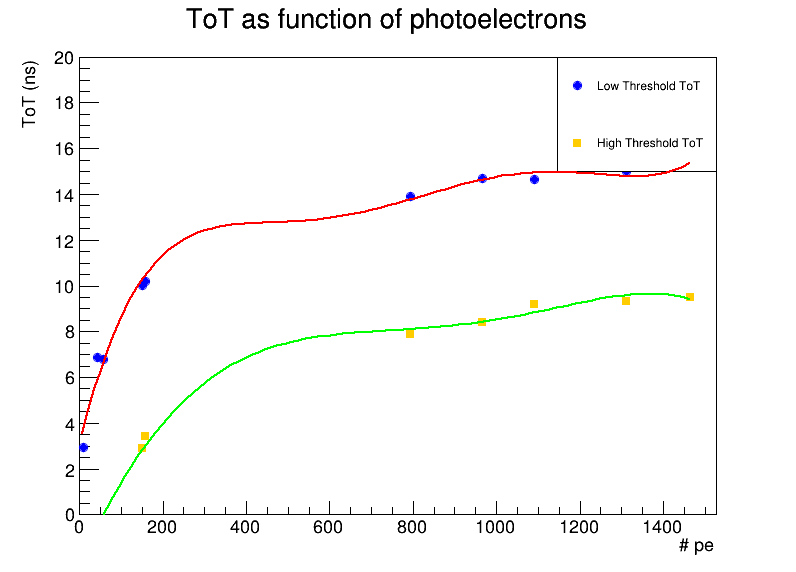
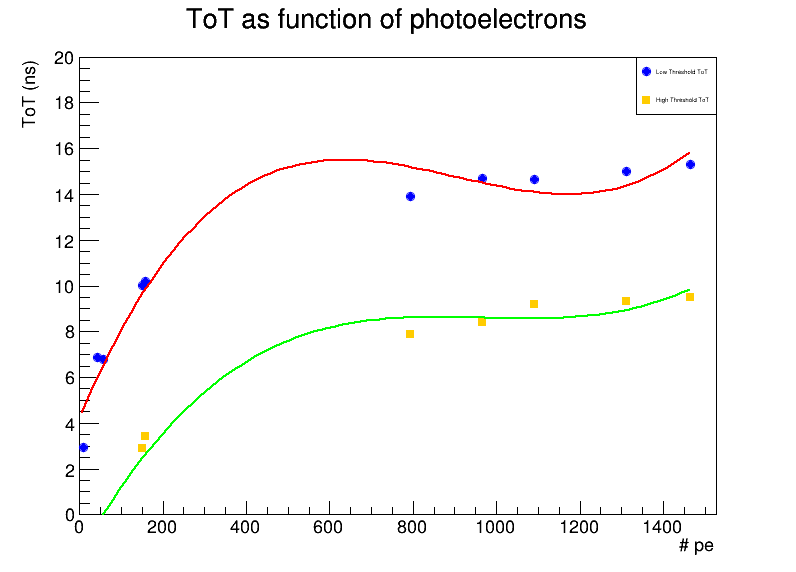
new commit

diff --git a/time_distribution_graph.C b/time_distribution_graph.C
@@ -254,14 +254,14 @@ int main() {
     gr_high->Draw("P same");
 
     // Aggiungi legenda
-    TLegend *legend = new TLegend(0.7, 0.7, 0.9, 0.9);
+    TLegend *legend = new TLegend(0.8, 0.8, 0.9, 0.9);
     legend->AddEntry(gr_low, "Low Threshold ToT", "p");
     legend->AddEntry(gr_high, "High Threshold ToT", "p");
     legend->Draw();
 
     // Esegui il fitting dei dati
-    TF1 *fit_low = new TF1("fit_low", "pol5", -0.01, 1470); // Fitting con un polinomio di secondo grado
-    TF1 *fit_high = new TF1("fit_high", "pol5", -0.01, 1470);
+    TF1 *fit_low = new TF1("fit_low", "pol3", -0.01, 1470); // Fitting con un polinomio di secondo grado
+    TF1 *fit_high = new TF1("fit_high", "pol3", -0.01, 1470);
 
     gr_low->Fit(fit_low, "R");
     gr_high->Fit(fit_high, "R");
